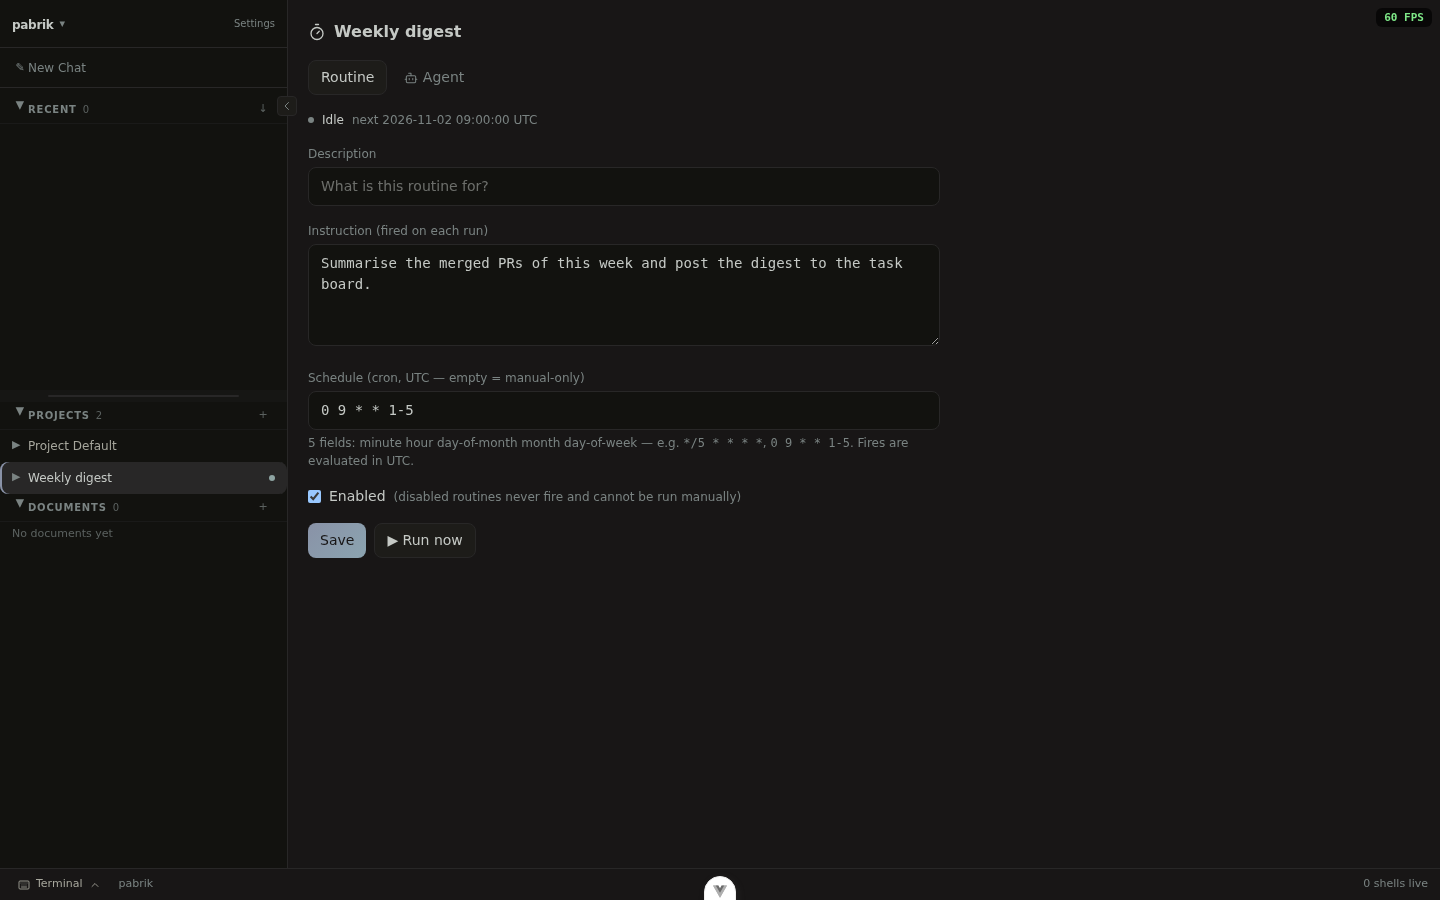
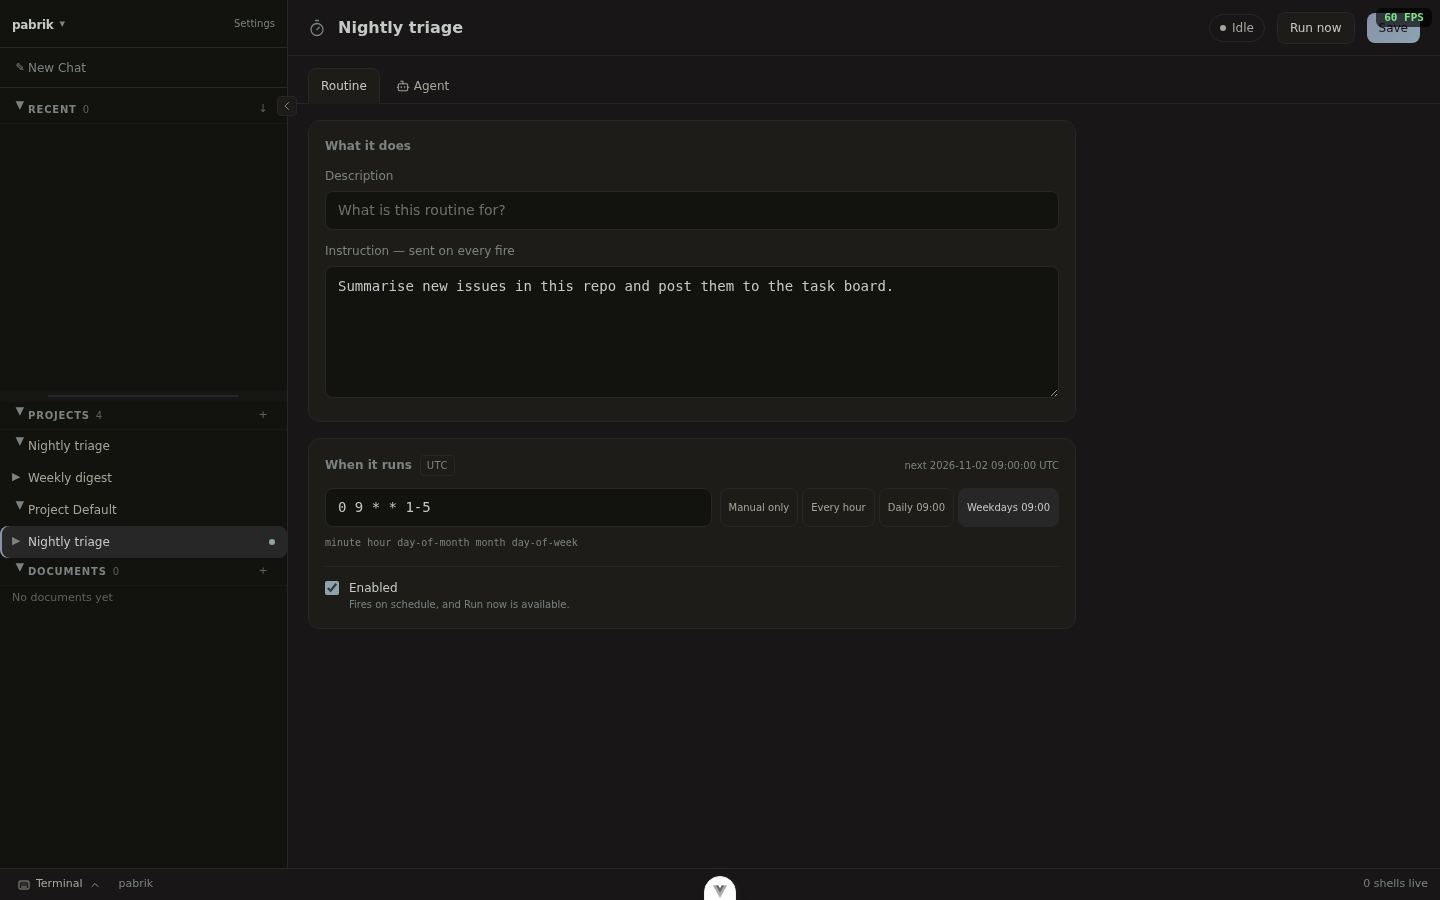
proof(#1114): the redesigned routine page, hosted for the pull request body

diff --git a/pr-1114/README.md b/pr-1114/README.md
@@ -10,11 +10,12 @@ port 8084 (fresh `HOME`, its own `agent.db`).
 - `01-add-routine-in-menu.png` — the projects "+" menu, **Add Routine** enabled
 - `02-add-routine-dialog.png` — the create dialog: instruction, cron with the
   `Weekdays 09:00` preset applied, folder chosen, Add enabled
-- `03-routine-view-routine-tab.png` — the routine right after creating it:
-  status `Idle`, `next 2026-11-02 09:00:00 UTC`
+- `03-routine-view-routine-tab.png` — the routine after creating it: header bar
+  with the status pill (`Idle`), two cards, `next 2026-11-02 09:00:00 UTC`
 - `04-routine-view-agent-tab.png` — the Agent tab: tools, system prompts,
   knowledge, local memories
-- `05-run-now-running.png` — after `▶ Run now`: status `Running`
+- `05-after-run.png` — after `Run now`, once the run finished: status `Success`
+  with `last ran … UTC` and the next fire
 - `06-before-fix-footer-clipped.png` — 1280×577: the pre-`d6e30e610` dialog cuts
   its own footer off (`add_button 547..582` vs `dialog ..534`, the click lands on
   the backdrop: `clickable: false`)
